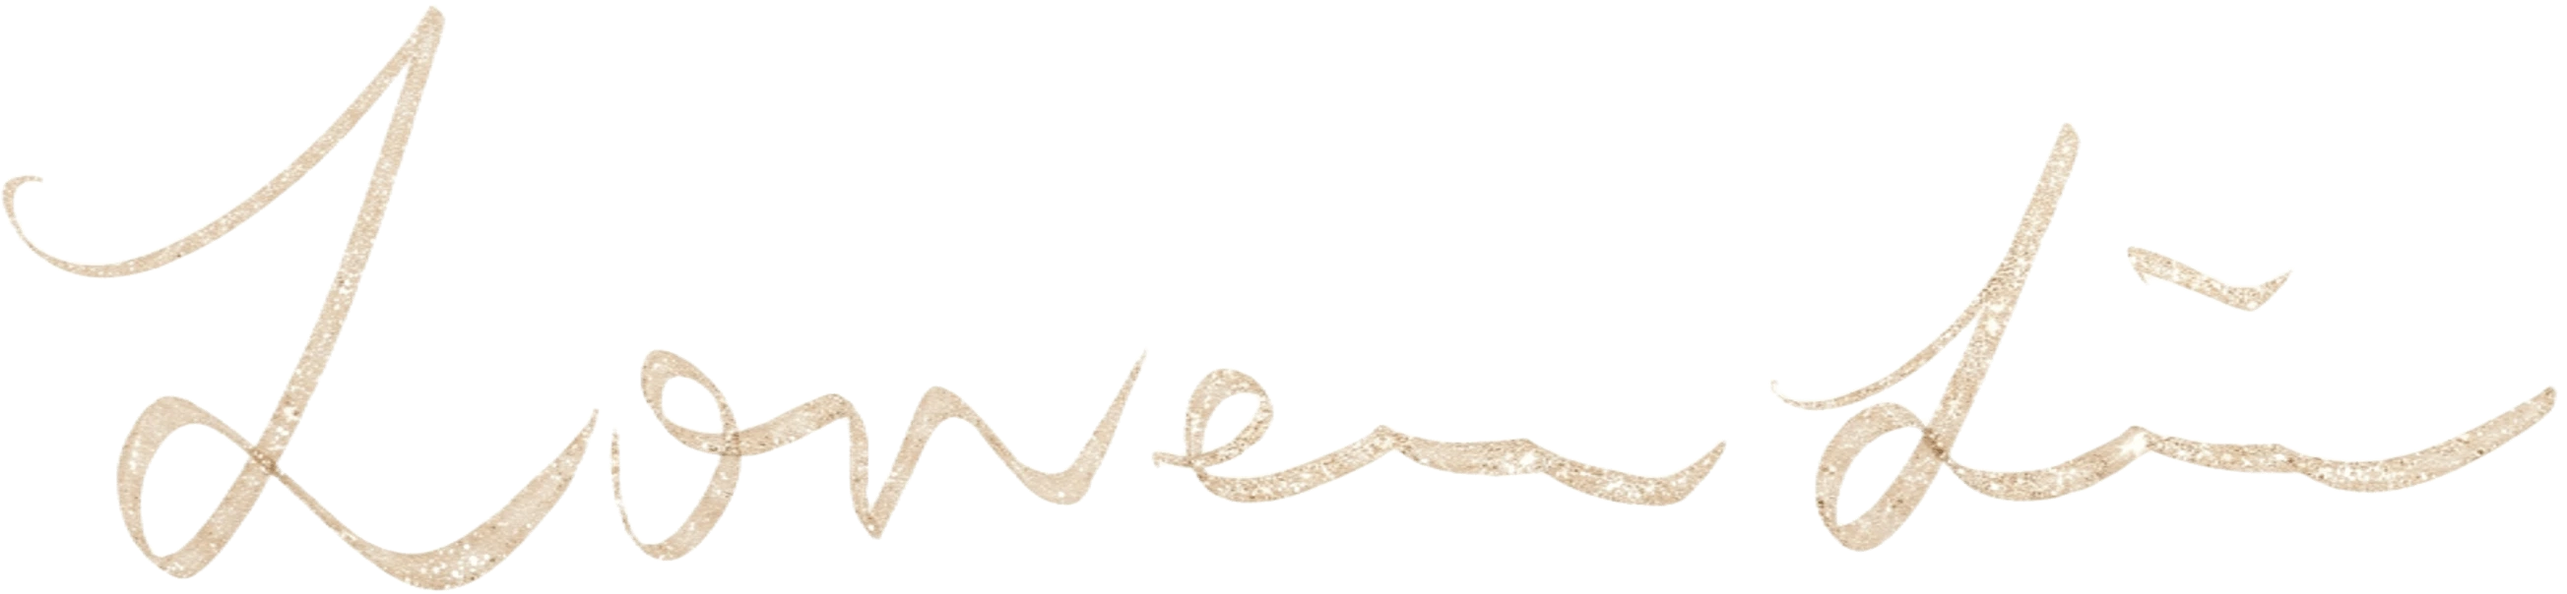
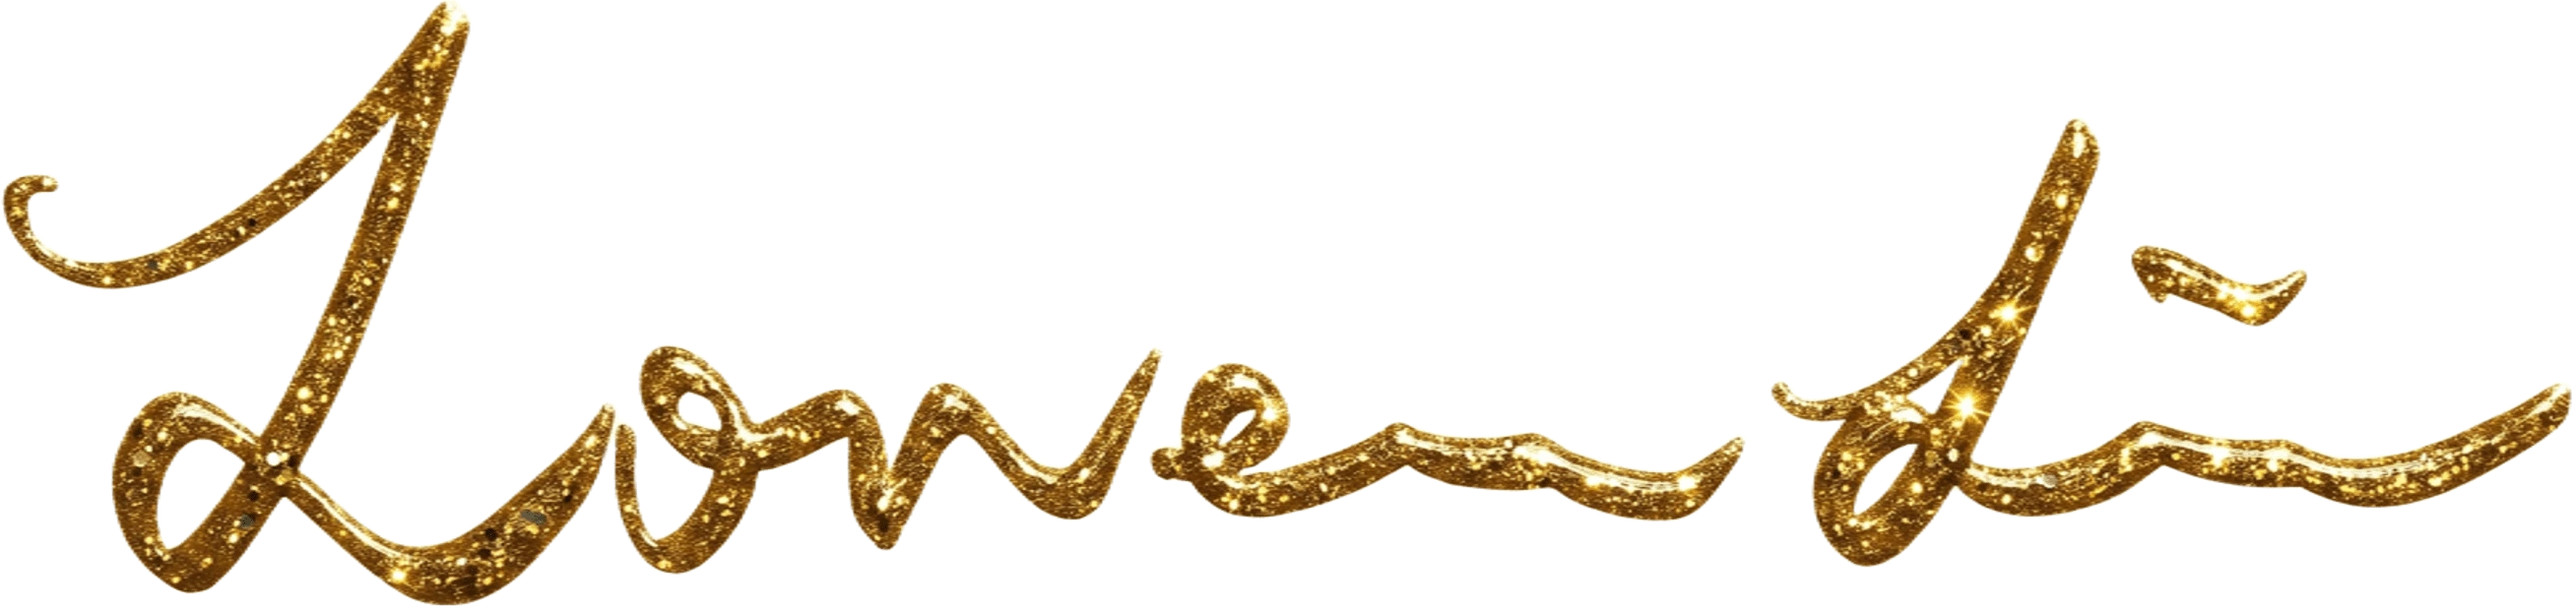
update

Changed region(s): [[0.0, 0.0, 1.0, 1.0]]

diff --git a/src/pages/index/components/PageFinal.tsx b/src/pages/index/components/PageFinal.tsx
@@ -1,5 +1,5 @@
 import React from "react";
-import { View, Text, Button } from "@tarojs/components";
+import { View, Text, Button, Image } from "@tarojs/components";
 import { AnimatedView } from "../../../components/AnimatedView";
 import {
   PageReadyGate,
@@ -15,7 +15,11 @@ interface PageFinalProps {
   onGoSchedule: () => void;
 }
 
-const PAGE_IMAGES: string[] = [images.gown];
+const PAGE_IMAGES: string[] = [
+  images.gown,
+  images.signatureNiuGold,
+  images.signatureGaoGold,
+];
 
 function PageFinalContent({
   onGoHome,
@@ -23,6 +27,9 @@ function PageFinalContent({
   onGoSchedule,
 }: Pick<PageFinalProps, "onGoHome" | "onGoLocation" | "onGoSchedule">) {
   const animationsReady = usePageAnimationsReady();
+  const signatureRevealClass = animationsReady
+    ? "final-signature-wrap final-signature-wrap--reveal"
+    : "final-signature-wrap";
 
   return (
     <View className="page page-final">
@@ -30,6 +37,27 @@ function PageFinalContent({
         className="final-bg"
         style={{ backgroundImage: `url(${images.gown})` }}
       />
+      <View className="final-signature final-signature--niu">
+        <View className={signatureRevealClass}>
+          <Image
+            className="final-signature-img"
+            src={images.signatureNiuGold}
+            mode="widthFix"
+          />
+        </View>
+      </View>
+      <View className="final-signature final-signature--gao">
+        <View
+          className={signatureRevealClass}
+          style={{ animationDelay: "280ms" }}
+        >
+          <Image
+            className="final-signature-img"
+            src={images.signatureGaoGold}
+            mode="widthFix"
+          />
+        </View>
+      </View>
       <View className="final-container">
         <View className="final-content">
           <AnimatedView

diff --git a/src/pages/index/components/PageFinal.scss b/src/pages/index/components/PageFinal.scss
@@ -17,12 +17,54 @@
   pointer-events: none;
 }
 
+.final-signature {
+  position: absolute;
+  z-index: 1;
+  pointer-events: none;
+
+  &--niu {
+    left: 23vw;
+    top: 23vh;
+  }
+
+  &--gao {
+    right: 41vw;
+    top: 41vh;
+  }
+}
+
+.final-signature-wrap {
+  display: inline-block;
+  overflow: hidden;
+  clip-path: inset(0 100% 0 0);
+
+  &--reveal {
+    animation: finalSignatureWipe 1s cubic-bezier(0.33, 1, 0.68, 1) forwards;
+  }
+}
+
+.final-signature-img {
+  display: block;
+  width: 28vw;
+  max-width: 220px;
+}
+
+@keyframes finalSignatureWipe {
+  from {
+    clip-path: inset(0 100% 0 0);
+  }
+
+  to {
+    clip-path: inset(0 0 0 0);
+  }
+}
+
 .final-container {
   position: absolute;
   bottom: 100px;
   left: 0;
   right: 0;
-  z-index: 1;
+  z-index: 2;
   display: flex;
   flex-direction: column;
   align-items: center;

diff --git a/src/utils/assets.ts b/src/utils/assets.ts
@@ -57,6 +57,8 @@ export const images = {
   agendaParty: resolveImageAssetPath("images/agenda-party.webp"),
   signatureGao: resolveImageAssetPath("images/signature-gao.webp"),
   signatureNiu: resolveImageAssetPath("images/signature-niu.webp"),
+  signatureGaoGold: resolveImageAssetPath("images/signature-gao-gold.webp"),
+  signatureNiuGold: resolveImageAssetPath("images/signature-niu-gold.webp"),
   gown: resolveImageAssetPath("images/gown.webp"),
   iconsNext: resolveImageAssetPath("images/icons-next.webp"),
   iconsUndo: resolveImageAssetPath("images/icons-undo.webp"),
@@ -102,6 +104,8 @@ const IMAGE_PRELOAD_BYTES: Record<keyof typeof images, number> = {
   agendaParty: 22_716,
   signatureGao: 11_812,
   signatureNiu: 13_142,
+  signatureGaoGold: 156_012,
+  signatureNiuGold: 132_714,
   gown: 311_742,
   iconsNext: 306,
   iconsUndo: 286,

diff --git a/src/constants/aliyun.ts b/src/constants/aliyun.ts
@@ -25,7 +25,7 @@ export const ALIYUN_FC_BASE_URL = "https://weddingtion-api-psnzcgebbh.cn-chengdu
 /**
  * Bump when you upload new images/fonts to OSS so clients fetch fresh files.
  */
-export const ASSETS_CACHE_VERSION = "202607101808";
+export const ASSETS_CACHE_VERSION = "202607101820";
 
 export function isAliyunConfigured(): boolean {
   return (
